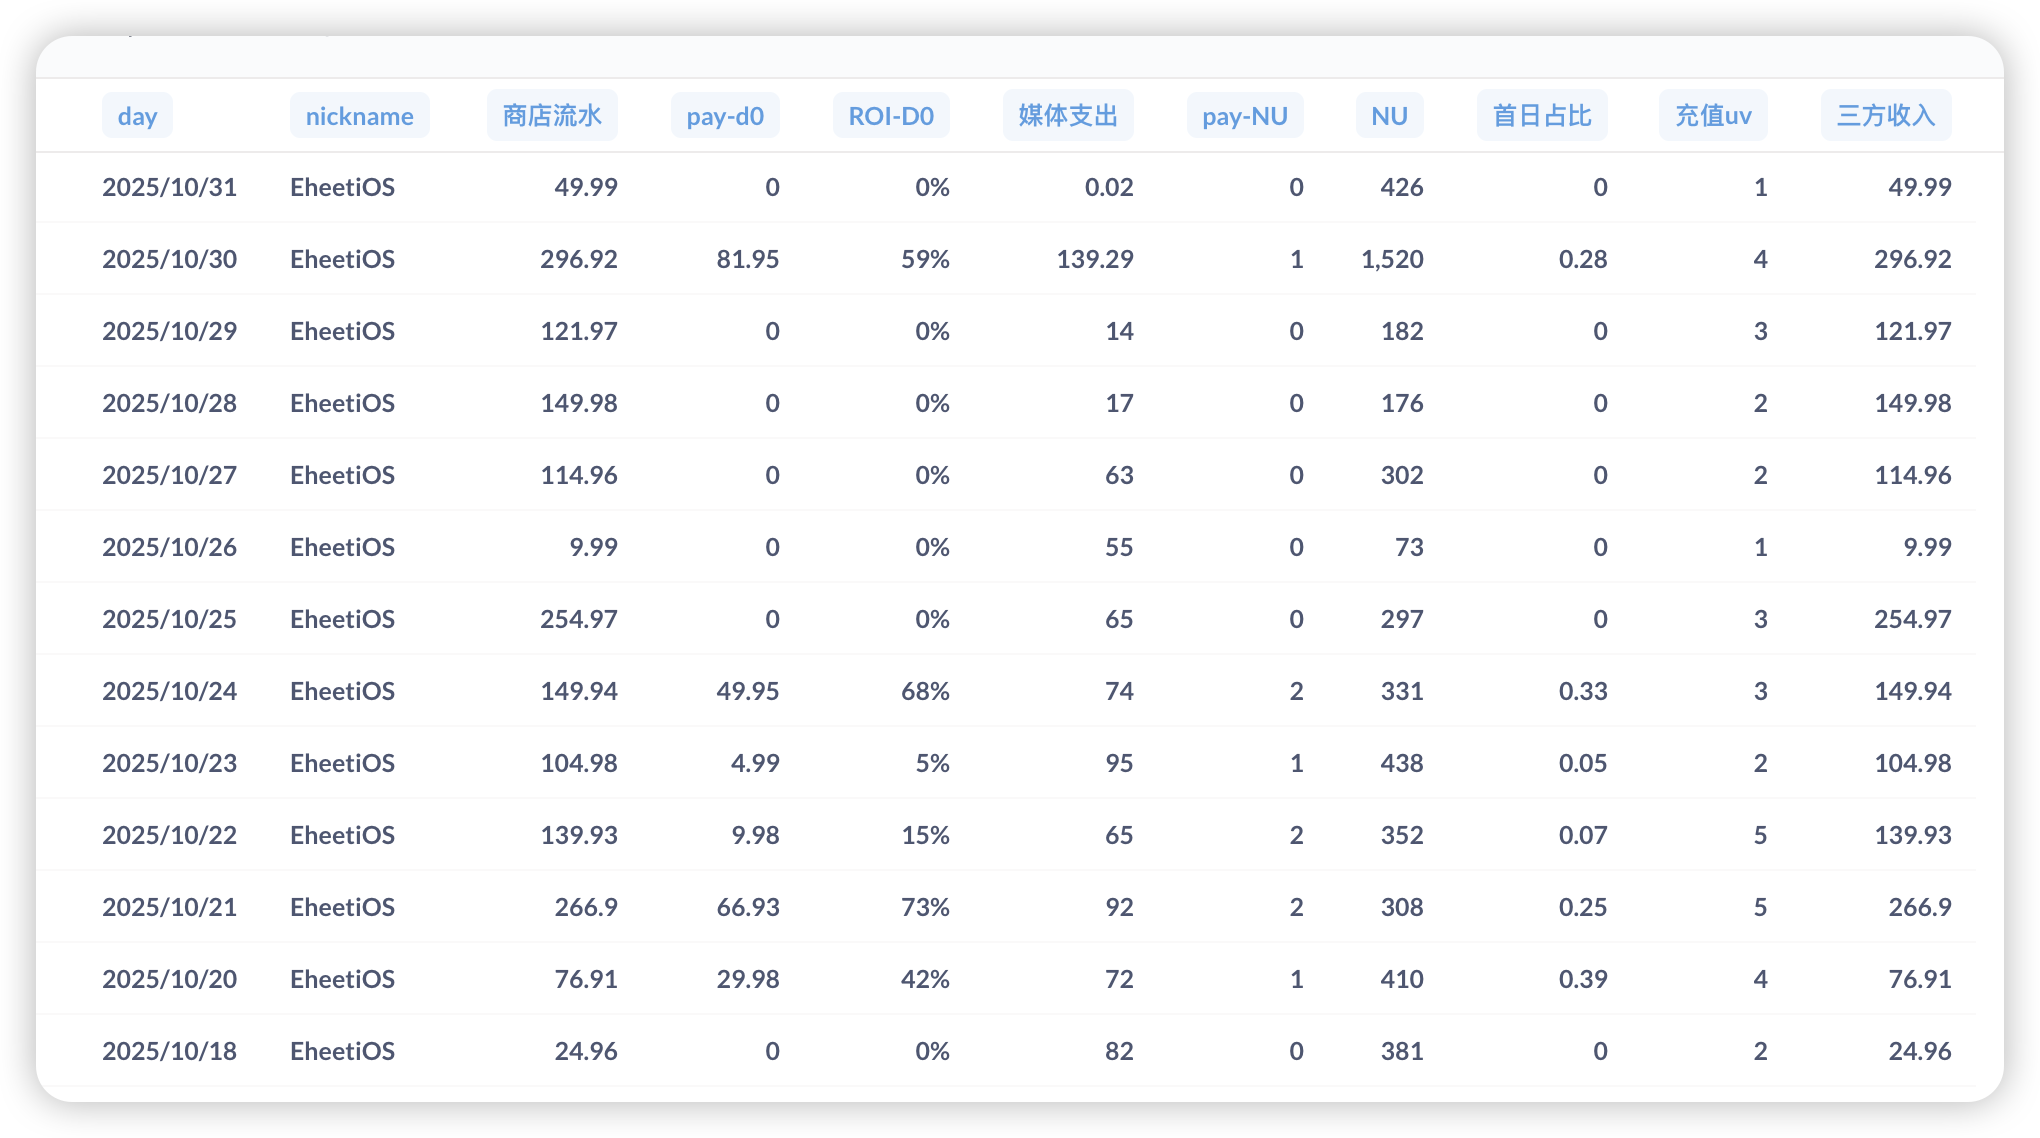
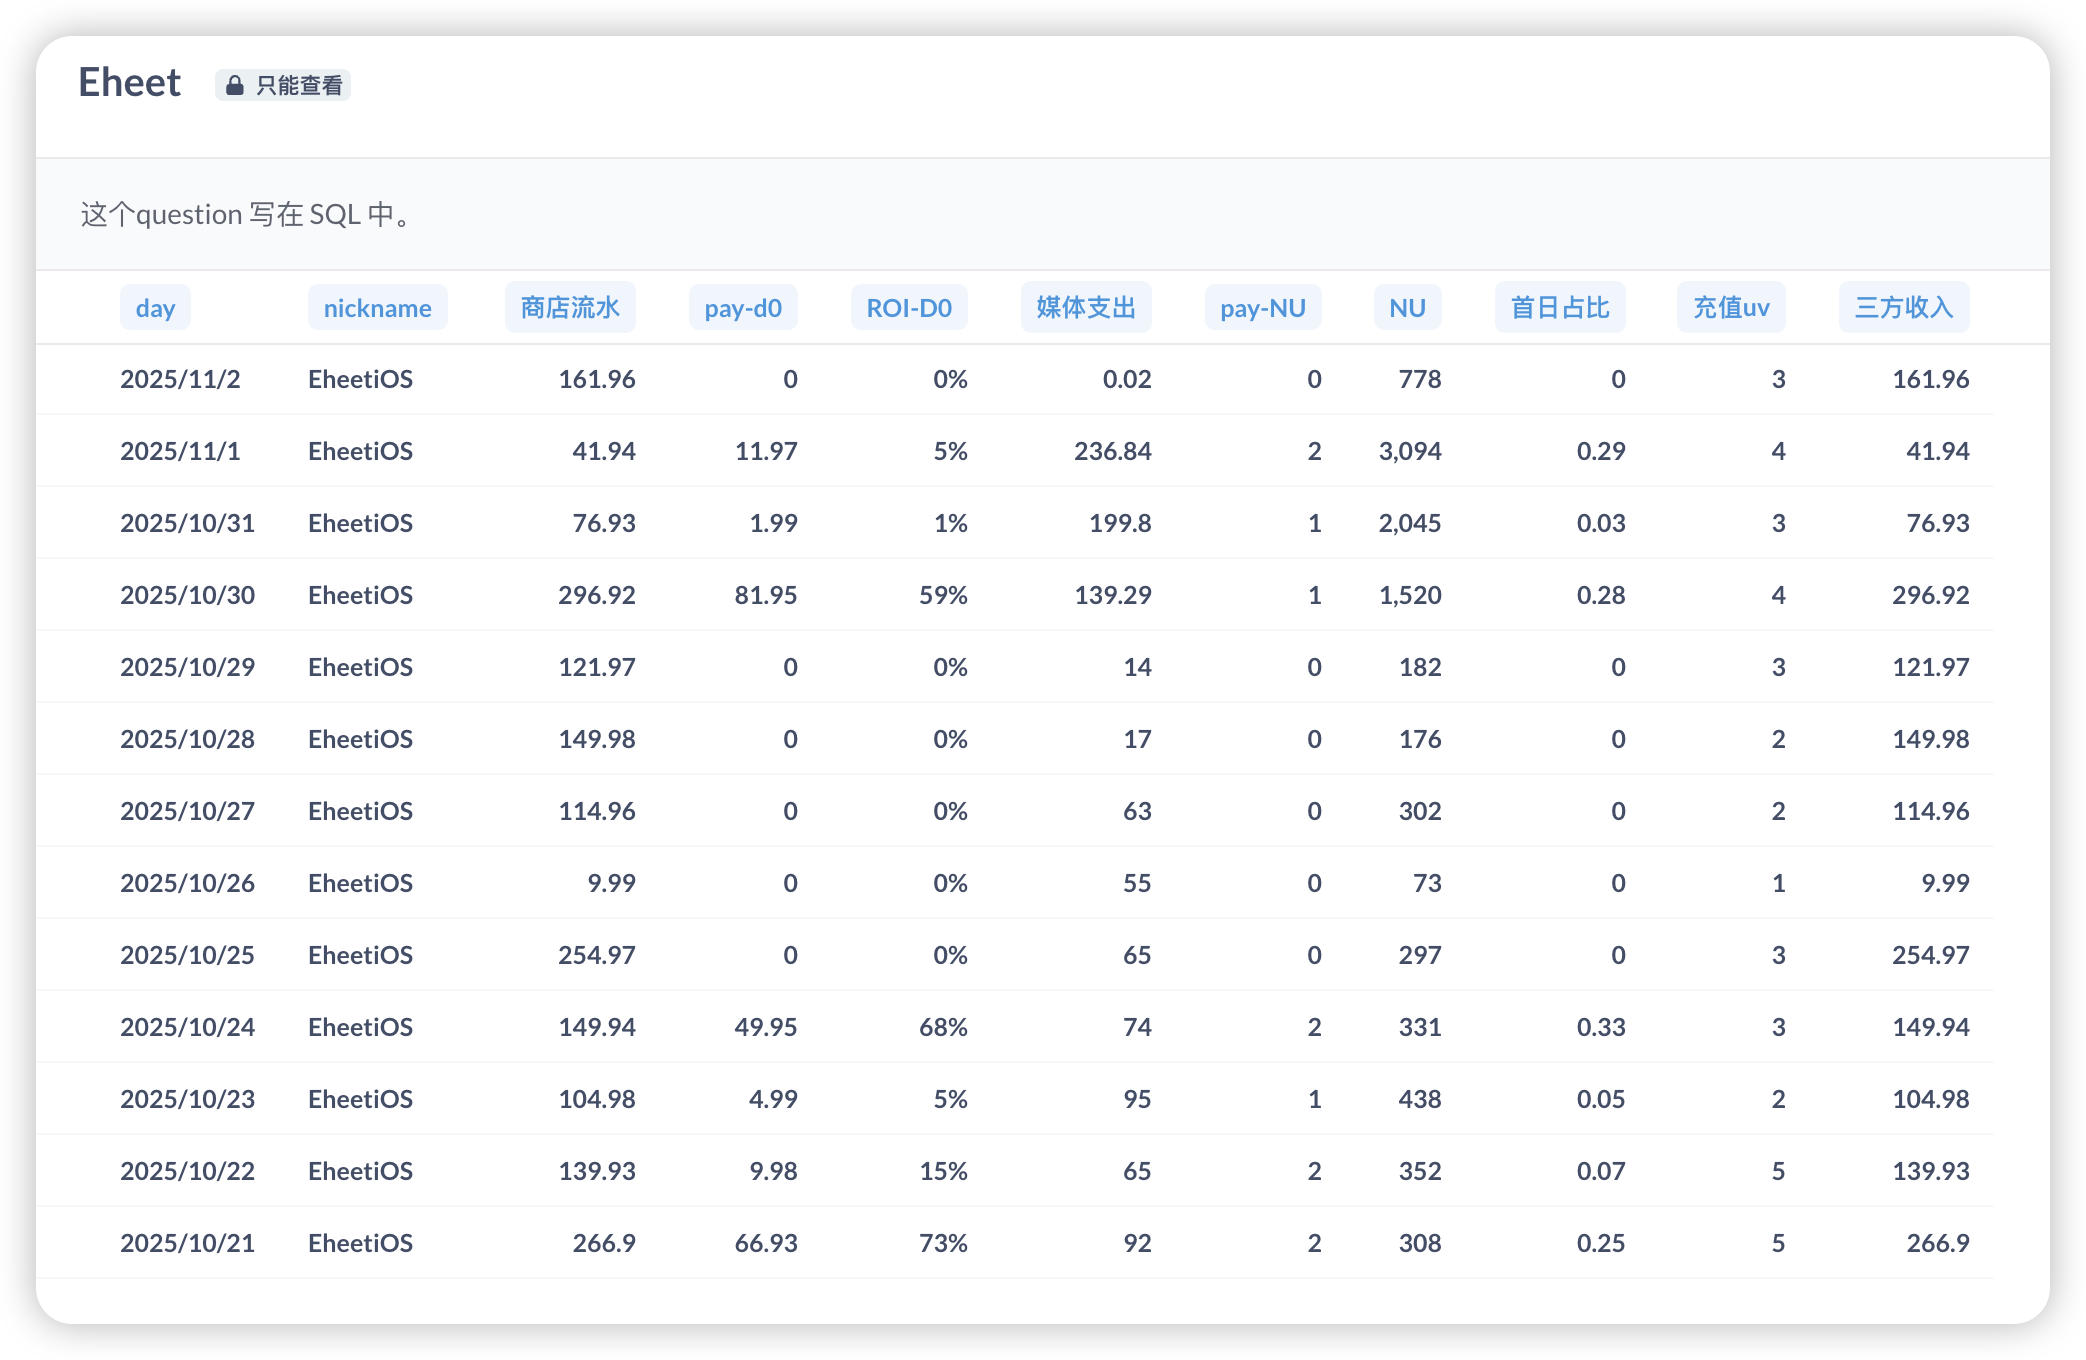
更新2025年第42周周报，新增业务数据和核心发现部分，详细分析付费率、投放能力及用户质量问题，明确下周核心动作和关键判断，以支持目标达成。

diff --git a/2025/第42周周报.md b/2025/第42周周报.md
@@ -2,7 +2,56 @@
 
 ## 一、核心数据
 
-⚠ **核心数据待补充**
+### 业务数据（10/30-11/2）
+
+![业务数据详情](../images/42/1.png)
+
+![转化漏斗详情](../images/42/2.png)
+
+![投放数据详情](../images/42/3.png)
+
+---
+
+### 核心发现与洞见
+
+**1. 付费率已达标，但流水差距巨大**
+
+11/1促销付费率达到5.92%，已超5%目标，证明转化端优化方向正确。但周均流水仅144刀，距2000刀目标差距13.8倍。**核心矛盾已从"转化率不足"转向"流量规模不足"**。
+
+**2. 投放能力是唯一瓶颈**
+
+10/30两个团队首日ROI均达58%，证明包名可投、产品可跑。但真实投放链接仅3条，20个备用域名未启用，导致11/1-11/2 ROI暴跌至5%甚至0%。**获客能力恢复速度直接决定11月目标能否达成**。
+
+**3. 11/1数据揭示深层问题**
+
+11/1新增3,093用户（最高），呼叫比例45.26%（最高），但流水仅41.94刀（最低），成交率1.09%。这说明：**用户质量下降或产品吸引力不足，大量流量进来但转化效率低**。需警惕盲目扩量导致ROI持续恶化。
+
+**4. 成交率波动暴露稳定性问题**
+
+成交率从10/30的3.85%骤降至11/1的1.09%，再到11/2的0%。**转化端并未真正稳定**，付费率5.92%可能是偶然波动而非系统性提升。下周付费率优化项上线后需持续观察至少一周数据。
+
+---
+
+### 关键判断
+
+**能否达成11月目标，取决于两周内能否做到：**
+
+1. **投放规模扩大10倍**：启用更多备用域名，稳定日均投放在1000刀+
+2. **ROI稳定在30%+**：优化素材和定向，避免11/1式的"高量低质"
+3. **付费率稳定在5%+**：下周优化项上线后，连续5天验证数据稳定性
+
+**如果两周后无法达到"日投1000刀+ROI 30%+付费率5%"，需立即调整11月目标预期。**
+
+---
+
+### 下周核心动作
+
+| 优先级 | 动作 | 预期结果 |
+|-------|------|---------|
+| P0 | 加速启用备用域名，目标日投1000刀+ | 流水突破500刀/天 |
+| P0 | 监控投放质量，ROI低于20%立即优化 | 避免11/1式"高量低质" |
+| P1 | 付费率优化项上线，连续跟踪5天数据 | 验证5%是否可持续 |
+| P1 | 分析11/1高呼叫低成交原因 | 找到转化效率下降的根因 |
 
 ---
 
